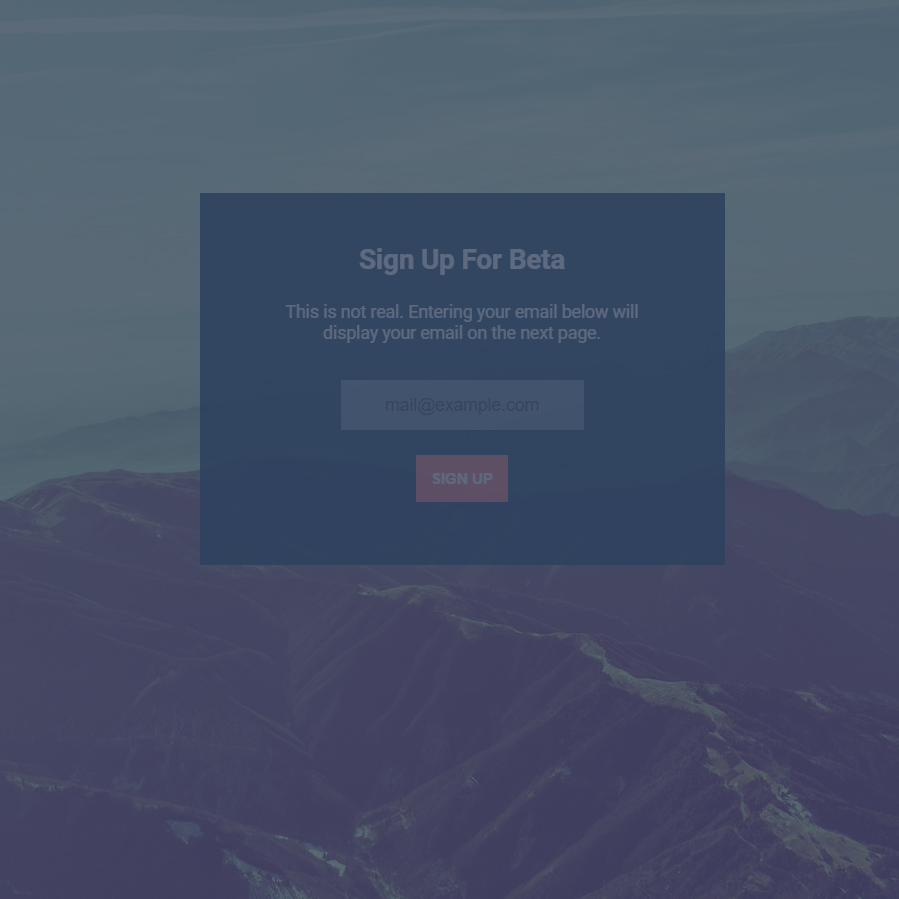
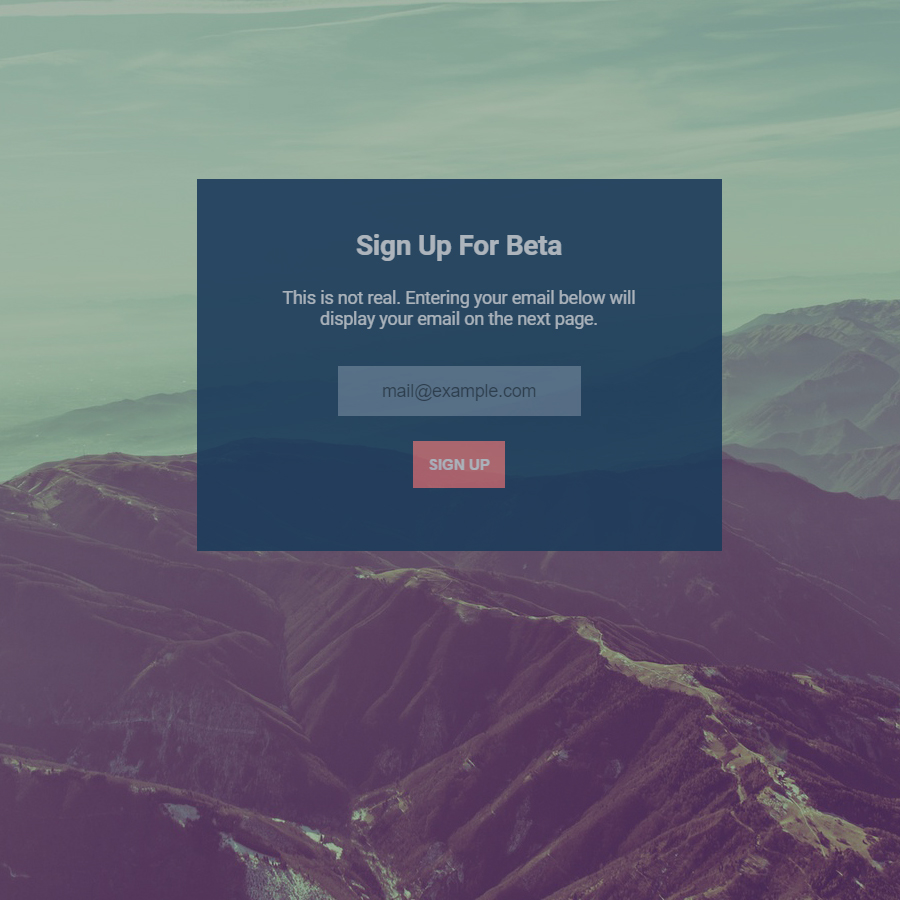
fix

diff --git a/css/style.css b/css/style.css
@@ -6,13 +6,14 @@
 body {
     font-family: 'Montserrat', sans-serif;
     color: #374561;
+    background-color: #fff;
 }
 
 .flex-container {
     display: flex;
     justify-content: space-between;
     align-items: center;
-    background-color: #ffffff;
+    background-color: #fff;
     padding: 1.2em 10%;
     border-bottom: solid 1px #cecece;
     flex-flow: column wrap;
@@ -105,9 +106,9 @@ body {
     margin: 0 auto;
     text-align: center;
     background-color: transparent;
-    font-size: 1.1em;
+    font-size: 1em;
     color: #ffffff;
-    padding: .8em .9em;
+    padding: 1.2em .8em;
     border: solid 1px #01D6A2;
     transition: .35s;
     cursor: pointer;
@@ -122,16 +123,37 @@ body {
 }
 
 .services__container {
+    text-align: center;
+    width: 80%;
+    margin: 0 auto;
+    padding: 4em 0 0 0;
+}
+
+.services__container h1 {
+    font-size: 1.5em;
+    font-weight: 400;
+}
+
+ hr {
+    width: 60px;
+    height: 3px;
+    background-color: #01d6a2;
+    border: none;
+    margin: 1em auto 2.5em auto;
+}
+
+
+.services__container-flex {
     height: 100%;
     color: #374561;
-    width: 80%;
+    width: 100%;
     margin: 0 auto;
     text-align: center;
     display: flex;
     justify-content: space-between;
     align-items: center;
     flex-flow: column wrap;
-    padding: 5em 0 0 0;
+    background-color: #fff;
 }
 
 .service {
@@ -141,9 +163,9 @@ body {
 }
 
 .service__img {
-    width: 100px;
-    height: 100px;
-    margin: 0 auto 3em auto;
+    width: 110px;
+    height: 110px;
+    margin: 0 auto 2em auto;
 }
 
 #design {
@@ -158,21 +180,22 @@ body {
     background-image: url(../images/BEdev.svg);
 }
 
-.services__container h1 {
-    font-size: 1.4em;
+
+.services__container-flex h1 {
+    font-size: 1.3em;
     padding-bottom: 1em;
-    font-weight: 300;
+    font-weight: 400;
 }
 
-.services__container p {
-    font-size: 1em;
+.services__container-flex p {
+    font-size: .9em;
     color: #3e4c69;
-    padding-bottom: 5em;
+    padding-bottom: 4em;
     line-height: 1.7em;
     font-family: 'roboto', sans-serif;
     max-width: 450px;
     margin: 0 auto;
-    text-align: left;
+    text-align: center;
 }
 
 .work__container {
@@ -223,22 +246,22 @@ body {
 }
 
 .weather {
-    background: url(../images/weather2.jpg) center center no-repeat;
+    background: url(../images/weather.jpg) center center no-repeat;
     background-size: cover;
 }
 
 .loc8r {
-    background: url(../images/loc8r2.jpg) center center no-repeat;
+    background: url(../images/loc8r.jpg) center center no-repeat;
     background-size: cover;
 }
 
 .animation {
-    background: url(../images/animation2.jpg) center center no-repeat;
+    background: url(../images/animation.jpg) center center no-repeat;
     background-size: cover;
 }
 
 .form {
-    background: url(../images/form2.jpg) center center no-repeat;
+    background: url(../images/form.jpg) center center no-repeat;
     background-size: cover;
 }
 
@@ -248,25 +271,24 @@ body {
 }
 
 .colors {
-    background: url(../images/color2.jpg); 
+    background: url(../images/color.jpg); 
     background-size: cover;
 }
 
 .brew {
-    background: url(../images/brew2.jpg); 
+    background: url(../images/brew.jpg); 
     background-size: cover;
 }
 
 .contact__container {
     padding: 5em 0;
-    background-color: #ffffff;
+    background-color: #fff;
     display: block;
 }
 
 .contact__container h1 {
-    font-size: 1.3em;
+    font-size: 1.5em;
     font-weight: 400;
-    padding-bottom: 1em;
     margin: 0 auto;
     text-align: center;
     color: #374561;
@@ -287,7 +309,7 @@ textarea {
     max-width: 100%;
     margin: 8px 0;
     padding: 10px 15px;
-    background: #ffffff;
+    background-color: #fff;
     color: #374561;
     font-size: 1em;
     border: 1px solid #374561;
@@ -370,9 +392,7 @@ textarea {
 
 footer {
     padding: 3em 0;
-    background: url(../images/bg.jpg) center center no-repeat;
-    background-size: cover;
-    color: #ffffff;
+    background-color: #374561;
     text-align: center;
 }
 
@@ -383,18 +403,19 @@ footer {
 
 .social__container li a {
     text-decoration: none;
-    color: #ffffff;
+    color: #f2f7ff;
     font-weight: 700;
     font-size: .9em;
     transition: .35s;
 }
 
 .social__container li a:hover  {
-    font-size: 1em;
+    color: #01d6a2;
 }
 
 footer p {
     font-size: .9em;
+    color: #f2f7ff;
     line-height: 1.7em;
     max-width: 80%;
     margin: 0 auto;
@@ -459,19 +480,24 @@ footer p {
     
     .title__container {
         width: 50%;
-        
+        margin: 0;
+        padding: 0 0 0 10%;
+        text-align: left;
     }
     .title__container button {
-        margin: 0 auto;
+        margin: 0;
     }
-    .services__container {
+    
+ hr {
+        width: 70px;
+    }
+    .services__container-flex {
         width: 75%;
-        padding-top: 7em;
     }
-    .services__container h1 {
+    .services__container-flex h1 {
         font-size: 1.1em;
     }
-    .services__container p {
+    .services__container-flex p {
         font-size: .9em;
         padding-bottom: 7em;
     }
@@ -499,6 +525,7 @@ footer p {
     }
     .title__container {
         width: 33.33%;
+        padding: 0 0 0 15%;
     }
     
     .title__container h1 {
@@ -508,11 +535,11 @@ footer p {
     .title__container h2 {
         font-size: .8em;
     }
-    .services__container {
+    .services__container-flex {
         width: 90%;
         flex-flow: row wrap;
         justify-content: space-around;
-        padding: 6em 0;
+        padding:0 0 6em 0;
     }
     .service {
         width: 27%;
@@ -521,19 +548,26 @@ footer p {
     }
     
     .services__container {
-        padding: 5em 0;
+        width: 100%;
     }
-    .services__container p {
+    
+ hr {
+        width: 80px;
+        margin: 1em auto 3em auto;
+
+    }
+    
+    .services__container-flex p {
         font-size: .7em;
         padding-bottom: 0;
     }
     .service__img {
-        width: 75px;
-        height: 75px;
+        width: 65px;
+        height: 65px;
         margin-bottom: 2em;
     }
     .contact__container {
-        padding: 5em 15%;
+        padding: 5em 10%;
     }
     footer {
         padding: 2em 0;
@@ -559,13 +593,13 @@ footer p {
     
     
     .title__container h1 {
-        font-size: 2.4em;
+        font-size: 2.2em;
     }
     
     .title__container h2 {
         font-size: .9em;
         width: 80%;
-        margin: 0 auto;
+        margin: 0;
     }
     
     
@@ -573,14 +607,14 @@ footer p {
         height: auto;
     }
 
-    .services__container h1 {
+    .services__container-flex h1 {
         font-size: 1em;
     }
-    .services__container p {
+    .services__container-flex p {
         font-size: .7em;
     }
     .work__container article {
-        width: 33.3%;
+        width: 33.33%;
     }
     .work__container h1 {
         font-size: 1em;

diff --git a/index.html b/index.html
@@ -46,22 +46,26 @@
             <a href="#contact"><button>Get In Touch</button></a>
         </div>
     </header>
-    <main class="services__container" id="services">
-        <div class="service">
-            <div class="service__img" id="frontEnd"></div>
-            <h1>Front-end</h1>
-            <p>I have an understanding of design, but development is my passion. I've used many different frameworks and libraries. When coding out structure and styles, I run into very few problems because I keep my code maintainable using the BEM methodology. I started learning Javascript from vanilla and then I tried JQuery, then finally NodeJS.</p>
-        </div>
-        <div class="service">
-            <div class="service__img" id="design"></div>
-            <h1>Design</h1>
-            <p>I'm proficient with both Adobe Illustrator and Photoshop. I understand UX conecpts and I create human-friendly designs that engage users. A great design must be aesthetically pleasing but also be functional and easily understood. If you would like to see some more examples of my designs, check out my LinkedIn page or follow me on Twitter.</p>
-        </div>
-        <div class="service">
-            <div class="service__img" id="backEnd"></div>
-            <h1>Back-end</h1>
-            <p>Back-End Development is something that I've just started to pick up this year. I consider myself a full-stack Javascript developer. That means that I use Javascript, with NodeJS and MongoDB to build full-stack websites. I've even gone so far as to create web applications on my local machine, and I've even launched a couple apps on heroku.</p>
-        </div>
+    <main class="services__container">
+        <h1>Services Provided</h1>
+        <hr/>
+        <main class="services__container-flex">
+            <div class="service">
+                <div class="service__img" id="frontEnd"></div>
+                <h1>Front-end</h1>
+                <p>I have an understanding of design, but development is my passion. I've used many different frameworks and libraries. When coding out structure and styles, I run into very few problems because I keep my code maintainable using the BEM methodology. I started learning Javascript from vanilla and then I tried JQuery, then finally NodeJS.</p>
+            </div>
+            <div class="service">
+                <div class="service__img" id="design"></div>
+                <h1>Design</h1>
+                <p>I'm proficient with both Adobe Illustrator and Photoshop. I understand UX conecpts and I create human-friendly designs that engage users. A great design must be aesthetically pleasing but also be functional and easily understood. If you would like to see some more examples of my designs, check out my LinkedIn page or follow me on Twitter.</p>
+            </div>
+            <div class="service">
+                <div class="service__img" id="backEnd"></div>
+                <h1>Back-end</h1>
+                <p>Back-End Development is something that I've just started to pick up this year. I consider myself a full-stack Javascript developer. That means that I use Javascript, with NodeJS and MongoDB to build full-stack websites. I've even gone so far as to create web applications on my local machine, and I've even launched a couple apps on heroku.</p>
+            </div>
+        </main>
     </main>
     <main class="work__container" id="work">
         <article class="loc8r">
@@ -96,6 +100,7 @@
     <main class="contact__container" id="contact">
       <div class="contact__align">
         <h1>Contact Me</h1>
+        <hr/>
         <form class="form__fluid" name="addData" method="post" action="/contact/send">
           <input id="userName" type="text" placeholder="Name" name="name" required=''>
           <input id="userEmail" type="email" placeholder="Email" name="email" required=''>
